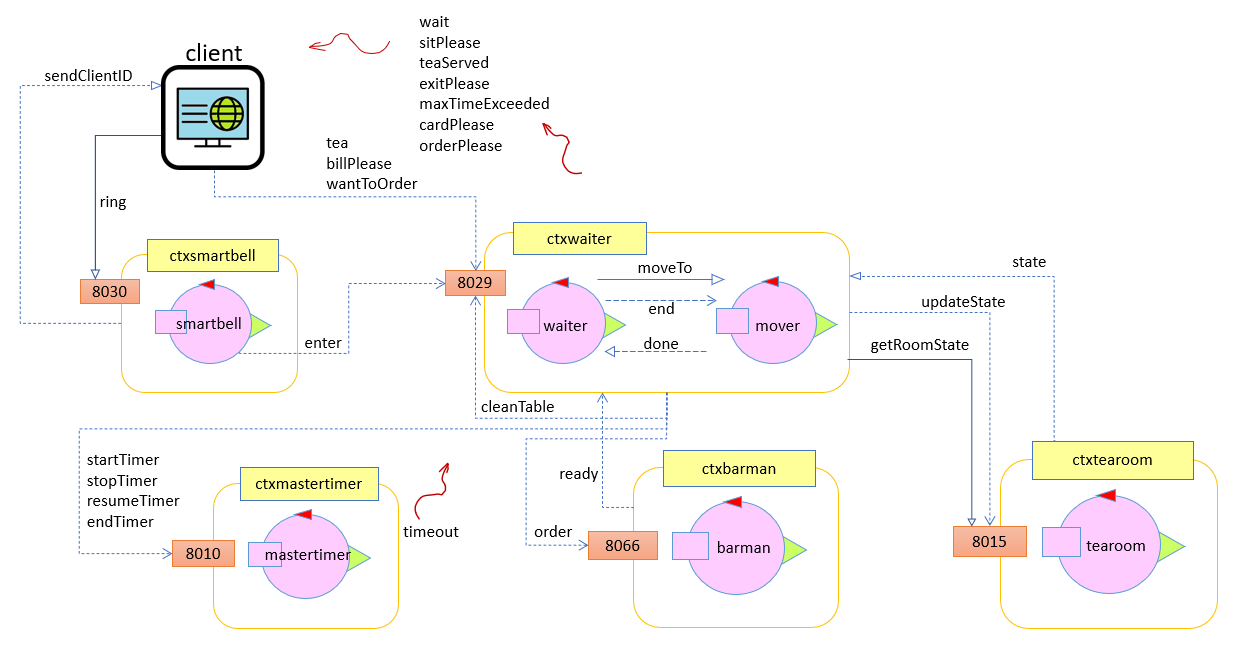
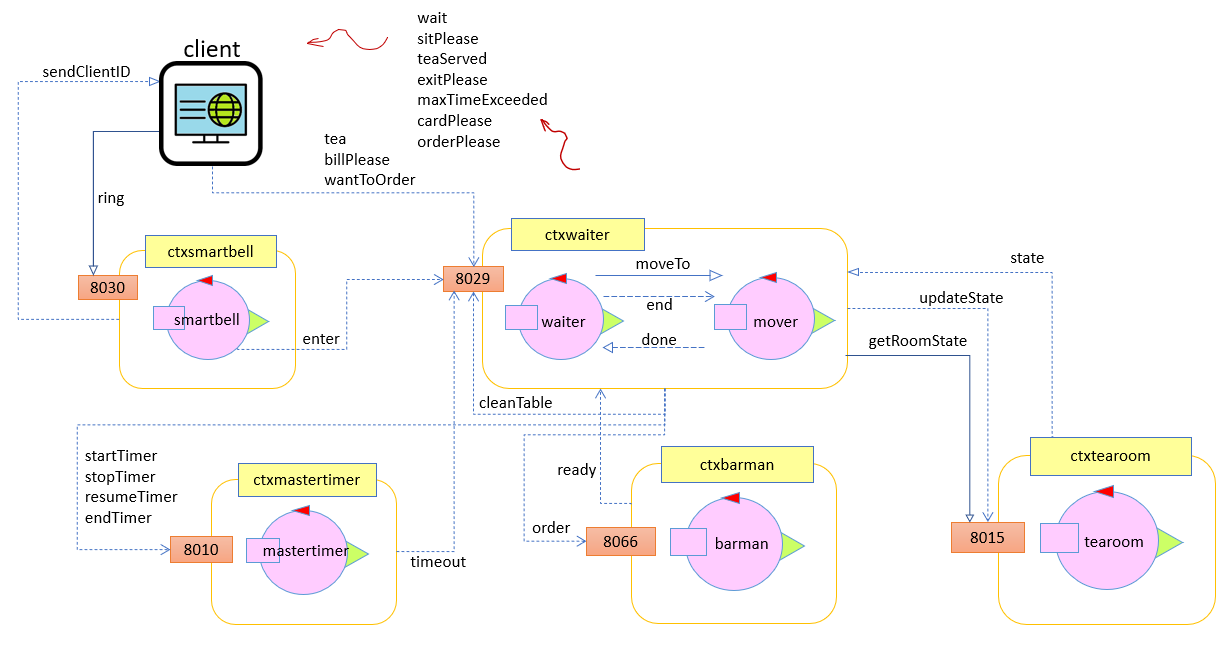
corrected timeout in documents
changed timeout in dispatch in documents, images and relative files (waiter.qak)

diff --git a/Sprint2_ISS2020/userDocs/Documento_Martini_Drudi_Sprint2.html b/Sprint2_ISS2020/userDocs/Documento_Martini_Drudi_Sprint2.html
@@ -337,7 +337,7 @@ tchange_evid{
 <keyw>Dispatch</keyw> stopTimer   : stopTimer(TEATABLE_ID)					
 <keyw>Dispatch</keyw> resumeTimer : resumeTimer(TEATABLE_ID)				
 <keyw>Dispatch</keyw> endTimer    : endTimer(TEATABLE_ID)					
-<keyw>Event</keyw> timeout     : timeout(TEATABLE_ID)						
+<keyw>Dispatch</keyw> timeout     : timeout(TEATABLE_ID)						
 <comm>//------------------------------------------------------------</comm></code></pre>
 		<p>In the space below we have reported the new qak model which has undergone some changes compared to the previous version.</p>
 		<p>The action of cleaning a teatable has therefore been modified in such a way that the arrival of any other message (and so a new task to perform) interrupts it. By doing this, the waiter can give priority to other actions which, as already explained, contribute to the goal of <u>making customers wait as little as possible inside the tearoom</u>.
@@ -377,7 +377,7 @@ ExternalQActor timer 	 context ctxtimer
 		println("waiter | No task to do. Chilling out at home...")	
 	}
 	<tevid>Transition t0   whenMsg enter -> handleEnter</tevid>
-					<tevid>whenEvent timeout -> handleTimeout</tevid>
+					<tevid>whenMsg timeout -> handleTimeout</tevid>
 					<tevid>whenMsg wantToOrder -> handleOrder</tevid>
 					<tevid>whenMsg ready -> serveTeaToClient </tevid>
 					<tevid>whenMsg billPlease -> handlePayment </tevid>
@@ -389,7 +389,7 @@ ExternalQActor timer 	 context ctxtimer
 	}
 	<tevid>Transition t0   whenTimeVar IdleTime -> restingAtHome</tevid>
 					<tevid>whenMsg enter -> handleEnter</tevid>
-					<tevid>whenEvent timeout -> handleTimeout</tevid>
+					<tevid>whenMsg timeout -> handleTimeout</tevid>
 					<tevid>whenMsg wantToOrder -> handleOrder</tevid>
 					<tevid>whenMsg ready -> serveTeaToClient</tevid>
 					<tevid>whenMsg billPlease -> handlePayment </tevid>
@@ -657,10 +657,10 @@ ExternalQActor timer 	 context ctxtimer
 
 <comm>// Interaction Waiter - Timer =================================//</comm>
 <keyw>Dispatch</keyw> startTimer 	: startTimer(TEATABLE_ID, MAX_TIME)	   
-<keyw>Dispatch</keyw> stopTimer 		: stopTimer(TEATABLE_ID)			   
+<keyw>Dispatch</keyw> stopTimer 	: stopTimer(TEATABLE_ID)			   
 <keyw>Dispatch</keyw> resumeTimer 	: resumeTimer(TEATABLE_ID)			   
 <keyw>Dispatch</keyw> endTimer 		: endTimer(TEATABLE_ID)				   
-<keyw>Event</keyw> timeout 			: timeout(TEATABLE_ID)				   
+<keyw>Dispatch</keyw> timeout 		: timeout(TEATABLE_ID)				   
 <comm>//=============================================================//</comm>
 
 <comm>// Interaction Waiter - Tearoom ========================================//</comm>
@@ -745,7 +745,7 @@ CodedQActor mastertimer		context ctxwaiter className "it.unibo.mastertimer.Maste
 	<tevid>Transition t0 	whenMsg enter -> handleEnterPhase1</tevid>
 					<tevid>whenRequest wantToOrder -> handleOrderFromClientPhase1</tevid>
 					<tevid>whenMsg ready -> serveTeaToClientPhase1</tevid>
-					<tevid>whenEvent timeout -> handleTimeoutPhase1</tevid>
+					<tevid>whenMsg timeout -> handleTimeoutPhase1</tevid>
 					<tevid>whenRequest billPlease -> handlePaymentPhase1 </tevid>
 					<tevid>whenMsg cleanTable -> cleanTeatablePhase1</tevid>
 	
@@ -760,7 +760,7 @@ CodedQActor mastertimer		context ctxwaiter className "it.unibo.mastertimer.Maste
 					<tevid>whenMsg enter -> handleEnterPhase1</tevid>
 					<tevid>whenRequest wantToOrder -> handleOrderFromClientPhase1</tevid>
 					<tevid>whenMsg ready -> serveTeaToClientPhase1</tevid>
-					<tevid>whenEvent timeout -> handleTimeoutPhase1</tevid>
+					<tevid>whenMsg timeout -> handleTimeoutPhase1</tevid>
 					<tevid>whenRequest billPlease -> handlePaymentPhase1 </tevid>
 					<tevid>whenMsg cleanTable -> cleanTeatablePhase1</tevid>
 	
@@ -1091,7 +1091,7 @@ CodedQActor mastertimer		context ctxwaiter className "it.unibo.mastertimer.Maste
 <keyw>Dispatch</keyw> stopTimer 	: stopTimer(TEATABLE_ID)			   
 <keyw>Dispatch</keyw> resumeTimer 	: resumeTimer(TEATABLE_ID)			   
 <keyw>Dispatch</keyw> endTimer 		: endTimer(TEATABLE_ID)				   
-<keyw>Event</keyw> timeout 			: timeout(TEATABLE_ID)
+<keyw>Dispatch</keyw> timeout 		: timeout(TEATABLE_ID)
 <comm>//---------------------------------------------------------</comm>	
 <comm>//----------- MASTERTIMER-SUBTIMER INTERACTION ------------</comm>
 <keyw>Dispatch</keyw> startSubtimer 	: startSubtimer( MAX_TIME)	   
@@ -1186,7 +1186,7 @@ CodedQActor mastertimer		context ctxwaiter className "it.unibo.mastertimer.Maste
 		onMsg(timeoutSubtimer : timeoutSubtimer(TABLE)){
 			[#var Teatable = payloadArg(0).toInt()#]
 			println("mastertimer | timeout for teatable $Teatable...")
-			<mevid>emit timeout : timeout($Teatable)</mevid>
+			<mevid>forward waiter -m timeout : timeout($Teatable)</mevid>
 		} 
 	}
 	<tevid>Goto waitForCommand</tevid>

diff --git a/Sprint2_ISS2020/userDocs/Progetto_Martini_Drudi_Sprint2.html b/Sprint2_ISS2020/userDocs/Progetto_Martini_Drudi_Sprint2.html
@@ -306,7 +306,7 @@ video{
 <keyw>Dispatch</keyw> stopTimer 		: stopTimer(TEATABLE_ID)			   
 <keyw>Dispatch</keyw> resumeTimer 		: resumeTimer(TEATABLE_ID)			   
 <keyw>Dispatch</keyw> endTimer 		: endTimer(TEATABLE_ID)				   
-<keyw>Event</keyw> timeout 			: timeout(TEATABLE_ID)				   
+<keyw>Dispatch</keyw> timeout 			: timeout(TEATABLE_ID)				   
 <comm>//===================================================================//</comm>
 
 <comm>// Interaction MasterTimer - SubTimers ===============================//</comm>
@@ -410,7 +410,7 @@ and can communicate with them through the forward operation (which implements a 
 		onMsg(timeoutSubtimer : timeoutSubtimer(TABLE)){
 			[#Teatable = payloadArg(0).toInt()#]
 			println("mastertimer | timeout for teatable $Teatable...")
-			<mevid>emit timeout : timeout($Teatable)</mevid>
+			<mevid>forward waiter -m timeout : timeout($Teatable)</mevid>
 		} 
 	}
 	<tevid>Goto waitForCommand</tevid>
